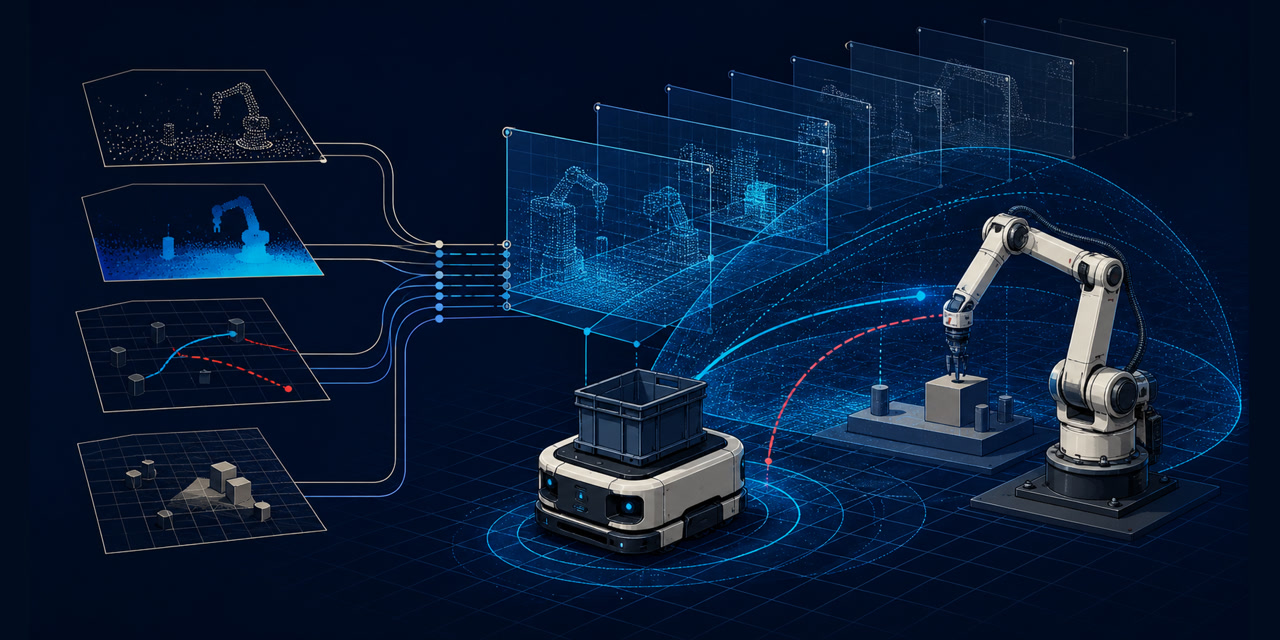
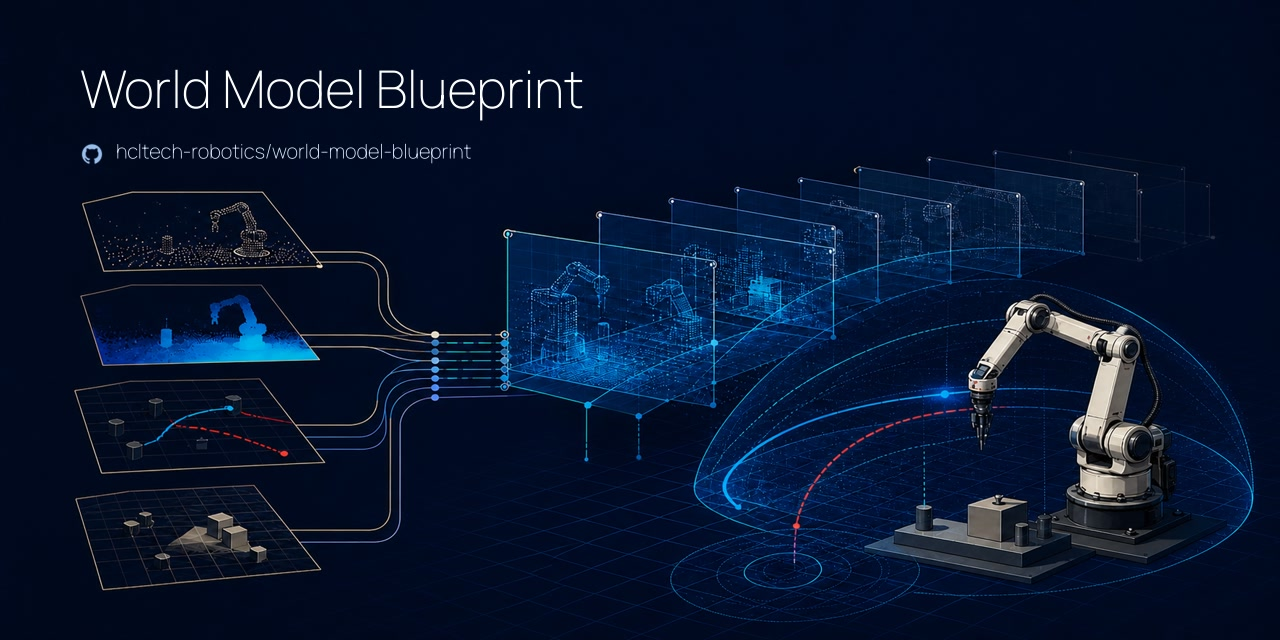
feat: adopt the HCLTech Robotics documentation theme

diff --git a/docs/overrides/main.html b/docs/overrides/main.html
@@ -1,4 +1,4 @@
-{% extends "base.html" %}
+{% extends "hcltech-base.html" %}
 
 {% block extrahead %}
   {{ super() }}
